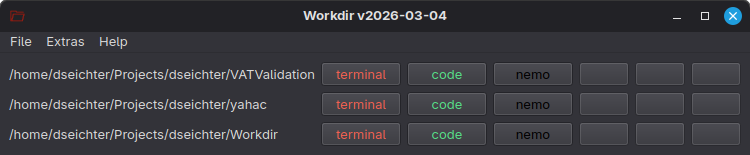
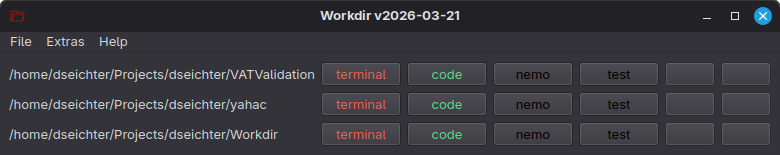
Prepare next release

diff --git a/src/helper.py b/src/helper.py
@@ -18,7 +18,7 @@ import json
 import logging
 from packaging import version
 
-VERSION = "v2026-03-16"
+VERSION = "v2026-03-21"
 UPDATEURL = 'https://api.github.com/repos/dseichter/Workdir/releases/latest'
 RELEASES = 'https://github.com/dseichter/Workdir/releases'
 NAME = 'Workdir'
